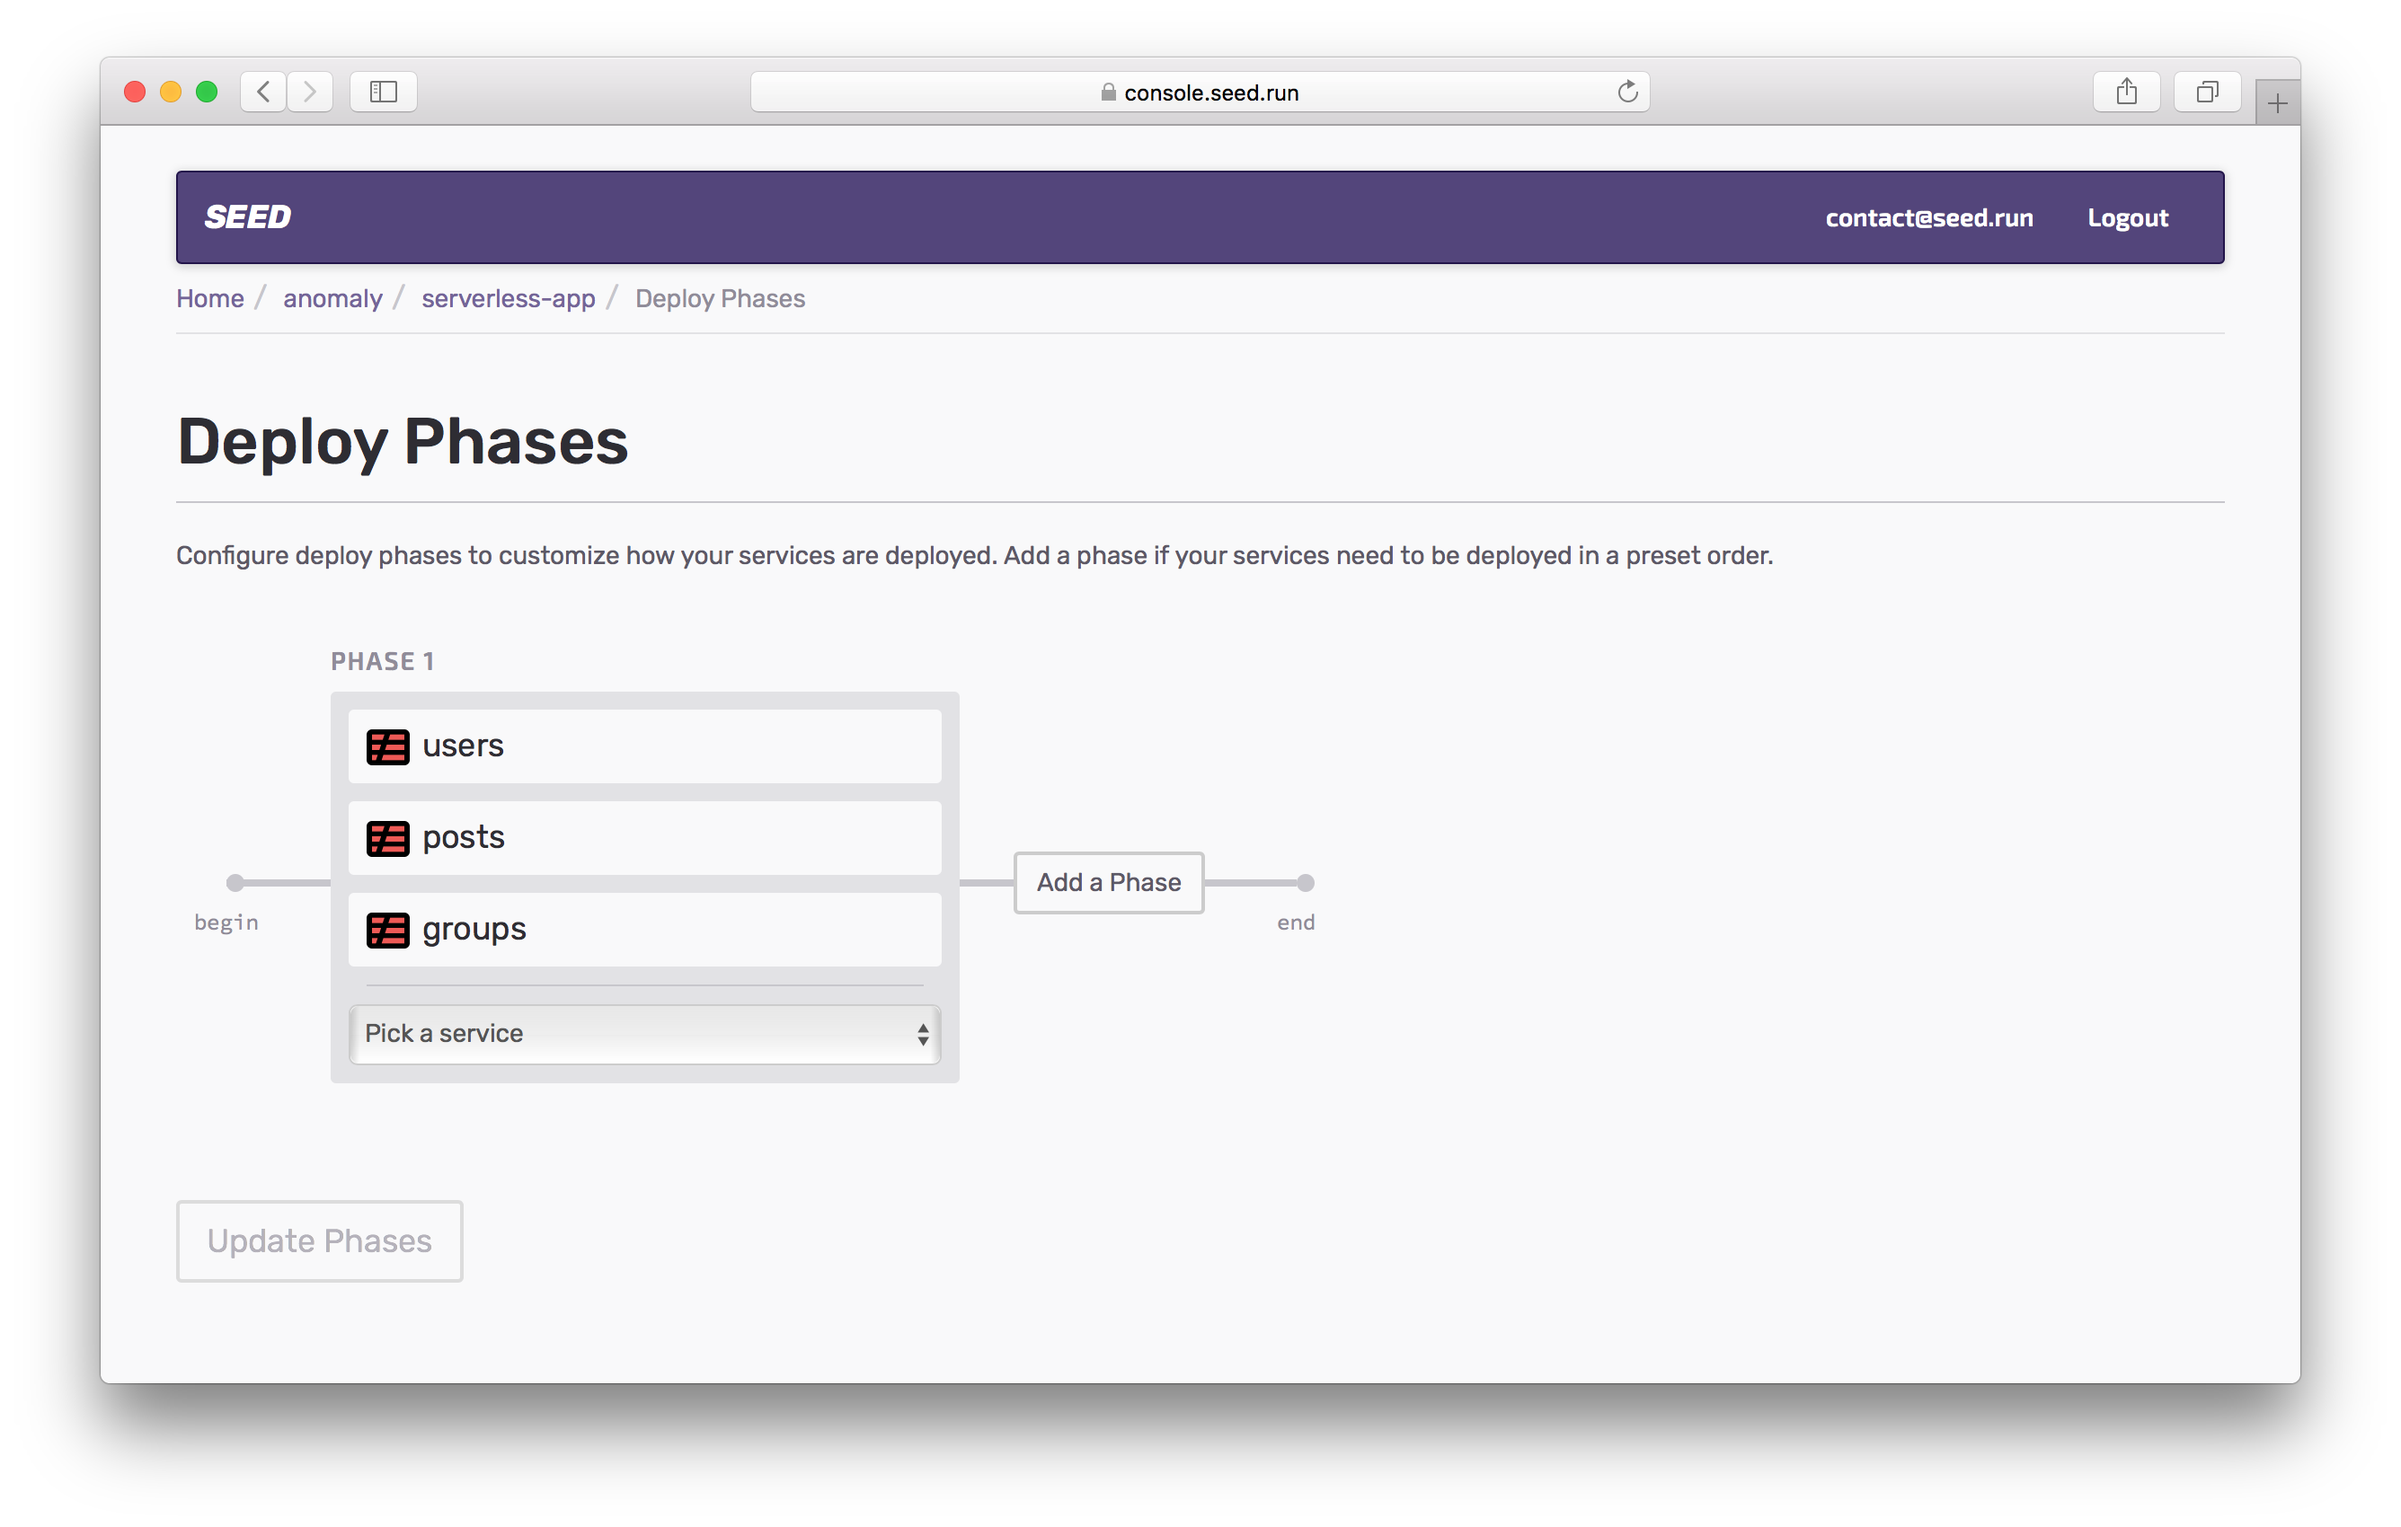
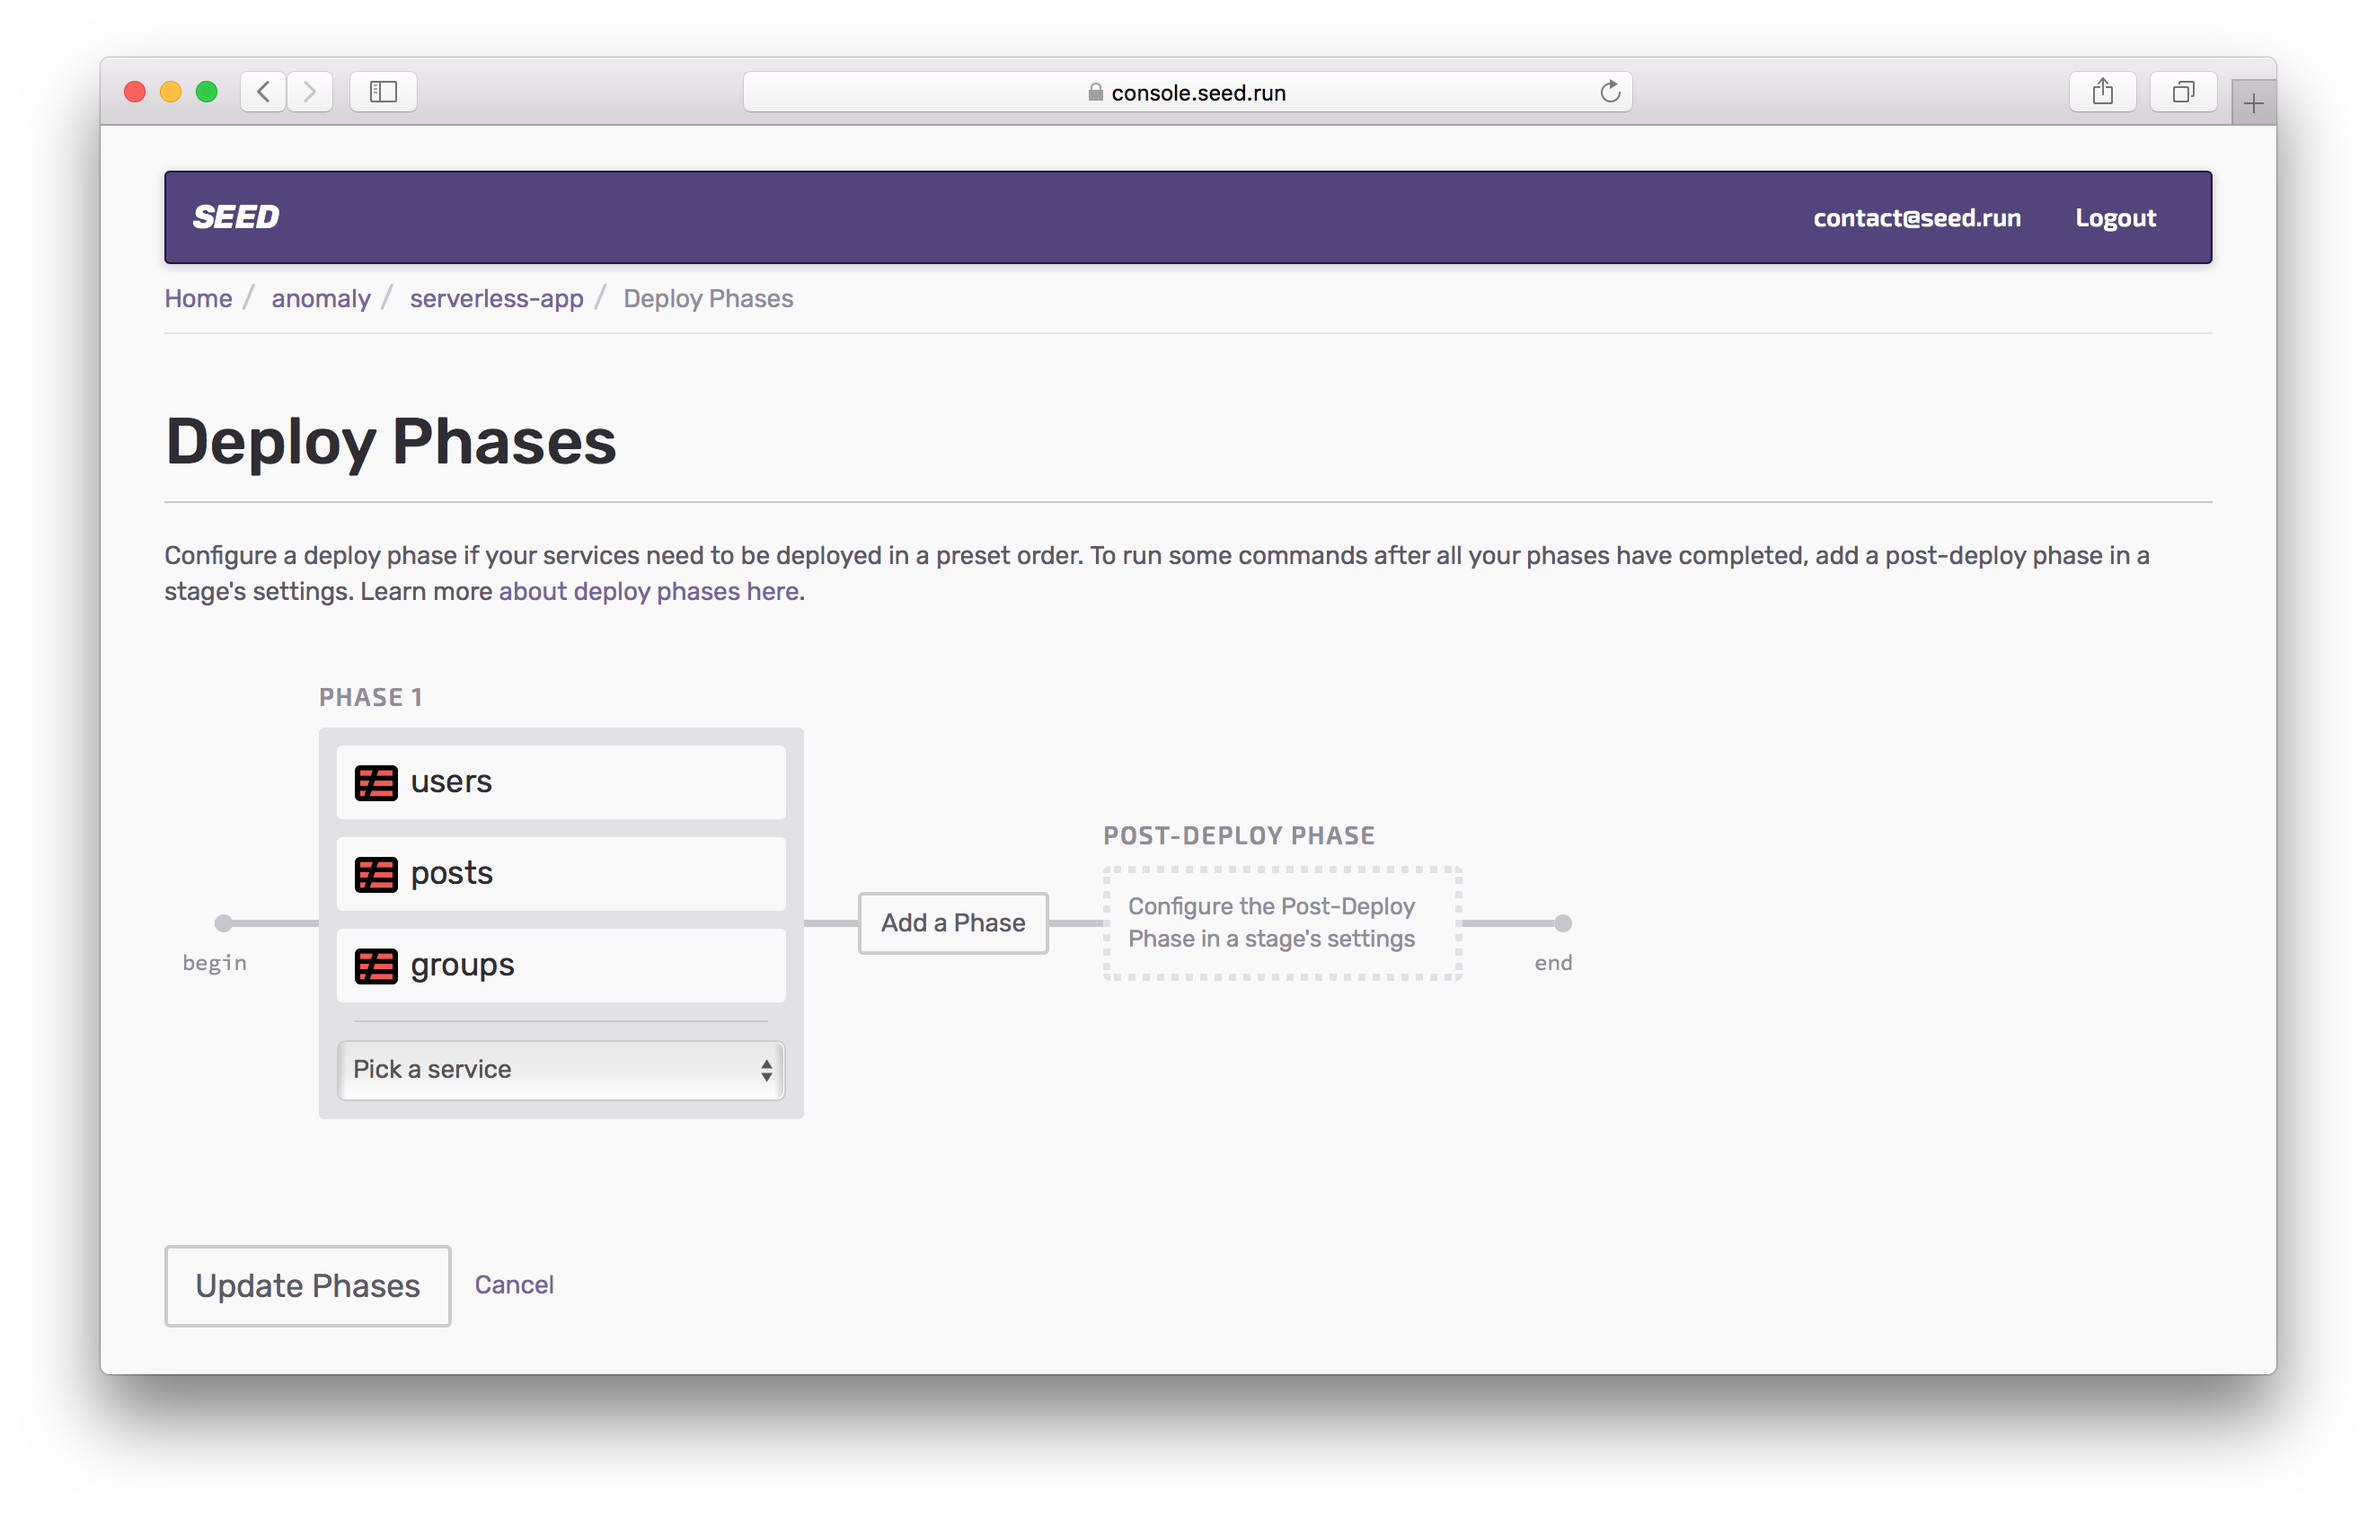
- Add docs for post-deploy phase

diff --git a/_docs/adding-a-post-deploy-phase.md b/_docs/adding-a-post-deploy-phase.md
@@ -1,0 +1,26 @@
+---
+layout: docs
+title: Adding a Post-Deploy Phase
+---
+
+With mono-repo deployments, you often want to run your integration tests after all your services have been deployed. To do this, Seed allows you to configure a post-deploy phase. A post-deploy phase can include a set of commands that you want to run after all your services have been successfully deployed.
+
+> Seed can run your integration tests as a part of the post-deploy phase.
+
+A post-deploy phase can also be used to run any database migration scripts or any other post-deployment scripts. Post-deploy phases are configured on a per stage basis. This means that you can customize what you want to run, in say production vs your dev stage.
+
+> Post-deploy phases are configured on a per stage basis.
+
+To configure a post-deploy phase, head over to the settings for the stage you are looking to set it for. And hit **Enable Post-Deploy**.
+
+![Enable Post-Deploy Phase](/assets/docs/adding-a-post-deploy-phase/enable-post-deploy-phase.png)
+
+Here you can set the commands you'd like to run. Each line contains its own command. Finally, hit **Save** once you are done.
+
+![Edit Post-Deploy Phase](/assets/docs/adding-a-post-deploy-phase/edit-post-deploy-phase.png)
+
+Now any deployments to this stage will run your commands as a part of the post-deploy phase in the deployment workflow.
+
+![Post-Deploy Phase in Deployment workflow](/assets/docs/adding-a-post-deploy-phase/post-deploy-phase-in-deployment-workflow.png)
+
+And that's it, now you can add your integration tests and post-deployment scripts to your mono-repo workflow.

diff --git a/_docs/configuring-deploy-phases.md b/_docs/configuring-deploy-phases.md
@@ -29,6 +29,8 @@ And hit **Update Phases**.
 
 Also, if you wanted to add the service back to Phase 1, you can just select it from the dropdown in Phase 1. 
 
+Finally, if you want to run integration tests or a script after all your deploy phases complete; you can [add a post-deploy phase]({% link _docs/adding-a-post-deploy-phase.md %}).
+
 ### Deployment Workflow
 
 With these changes, any new deployment will use the phases configured above as a part of the workflow.
